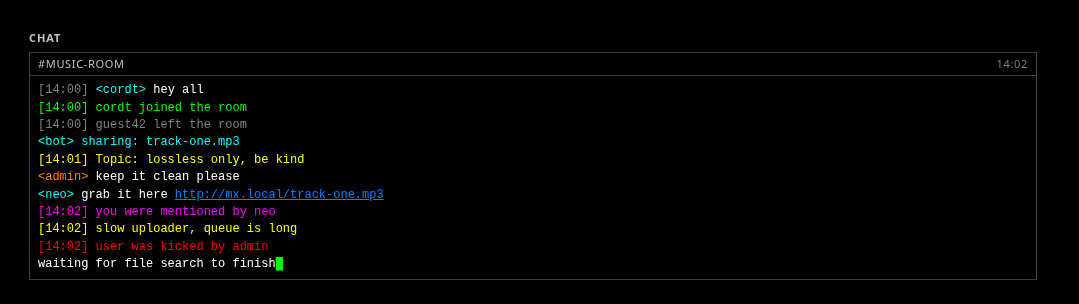
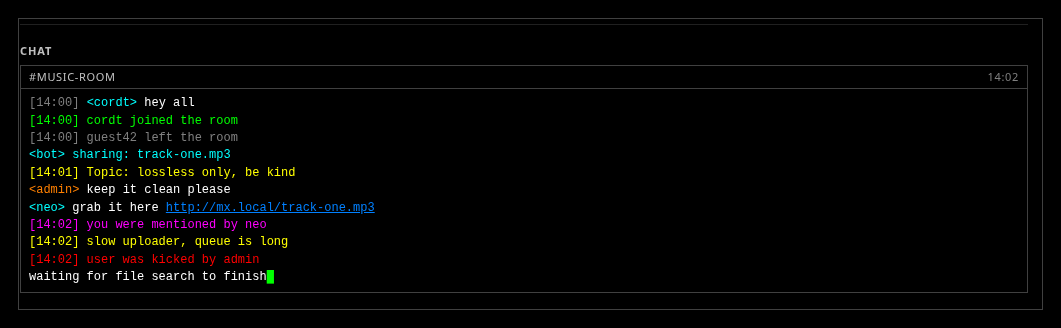
Reorganize screenshots: captioned, buffered, non-overlapping
- Drop overview.png (duplicated every section crop).
- Five non-overlapping sections: palette, controls, generic-primitives,
  search-and-transfers, chat; clearer filenames.
- 1px outline + 18px buffer per image so they read on light/dark GitHub.
- Stacked captioned README gallery instead of a cramped table.
- Publish screenshots/ so README images resolve on npm.

Changed region(s): [[0.0, 0.0888, 0.9642, 0.9474], [0.0311, 0.0296, 0.9642, 0.0592]]

diff --git a/README.md b/README.md
@@ -10,15 +10,28 @@ dialog, switch, slider, fields, …) plus file-sharing-specific elements
 - Works with plain CSS, Tailwind CSS v3/v4, and PandaCSS / park-ui.
 - Compact controls, 1px borders, square-ish corners, monospace data.
 
-![WinMX UI Kit overview](screenshots/overview.png)
-
 ## Screenshots
 
-| Controls | Search results & transfers | Chat |
-| --- | --- | --- |
-| ![Buttons, inputs, progress, badges and alerts](screenshots/controls.png) | ![Search results, network status and transfers](screenshots/listings.png) | ![Chat window](screenshots/chat.png) |
+**Palette** — the saturated WinMX colours on true black.
 
-![Generic primitives: tabs, disclosure, dialog, switch, slider, fields, keys and typography](screenshots/generic.png)
+![Colour palette swatches](screenshots/palette.png)
+
+**Controls** — buttons, inputs, progress, badges and alerts.
+
+![Buttons, inputs, progress bars, badges and alerts](screenshots/controls.png)
+
+**Generic primitives** — tabs, disclosure, dialog, tooltip, switch, slider, loading states, form fields, keys/code and typography.
+
+![Generic primitives: tabs, disclosure, dialog, switch, slider, fields, keys and typography](screenshots/generic-primitives.png)
+
+**Search & transfers** — result states, network status and transfer states.
+
+![Search results, network status and transfers](screenshots/search-and-transfers.png)
+
+**Chat** — user, system, join/leave, warning, error, link, mention and timestamp colours.
+
+![Chat window with coloured message kinds](screenshots/chat.png)
+
 
 ```
 src/winmx.css            core tokens + element/component classes
